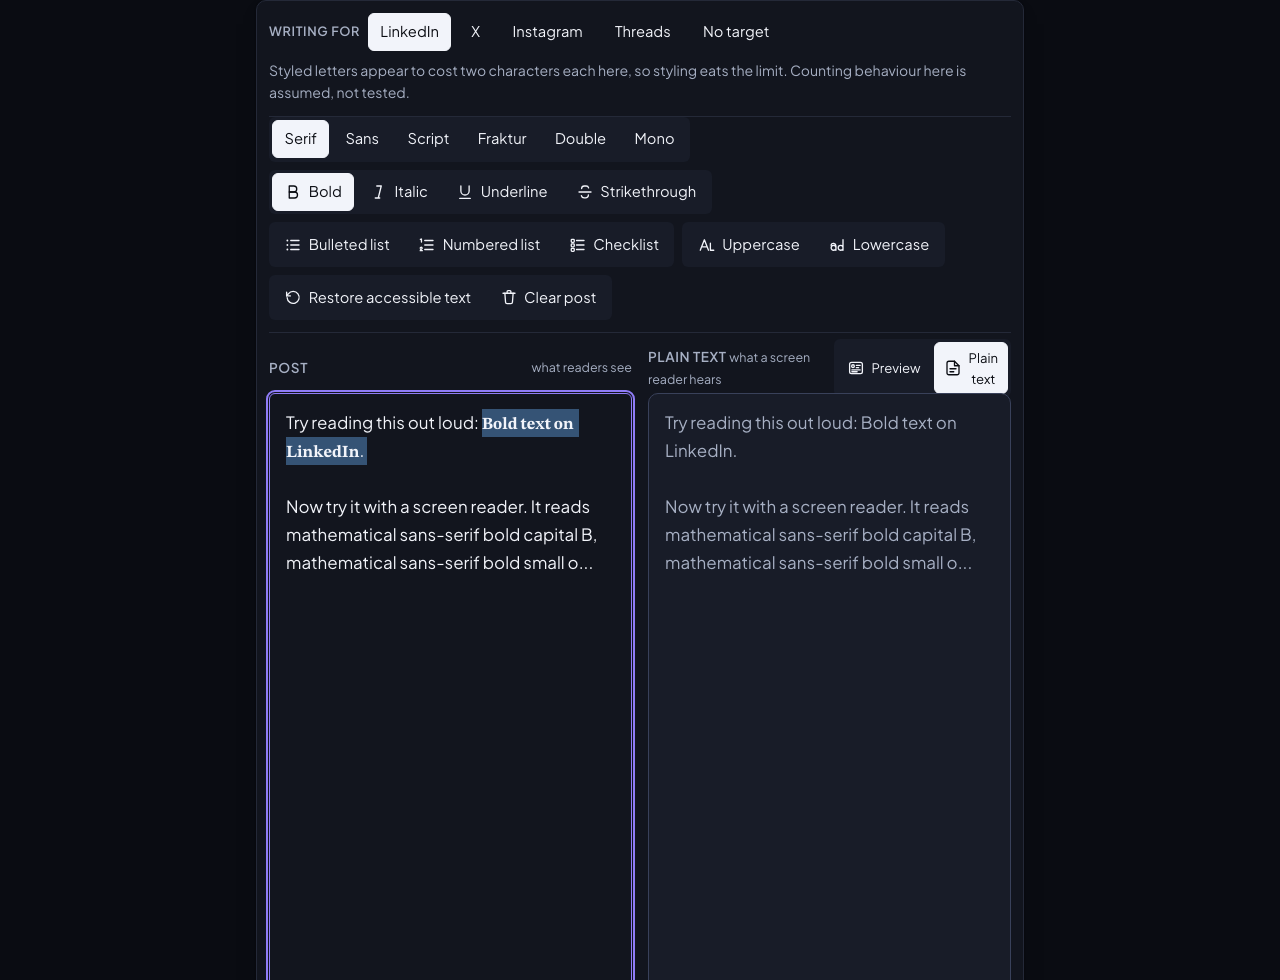
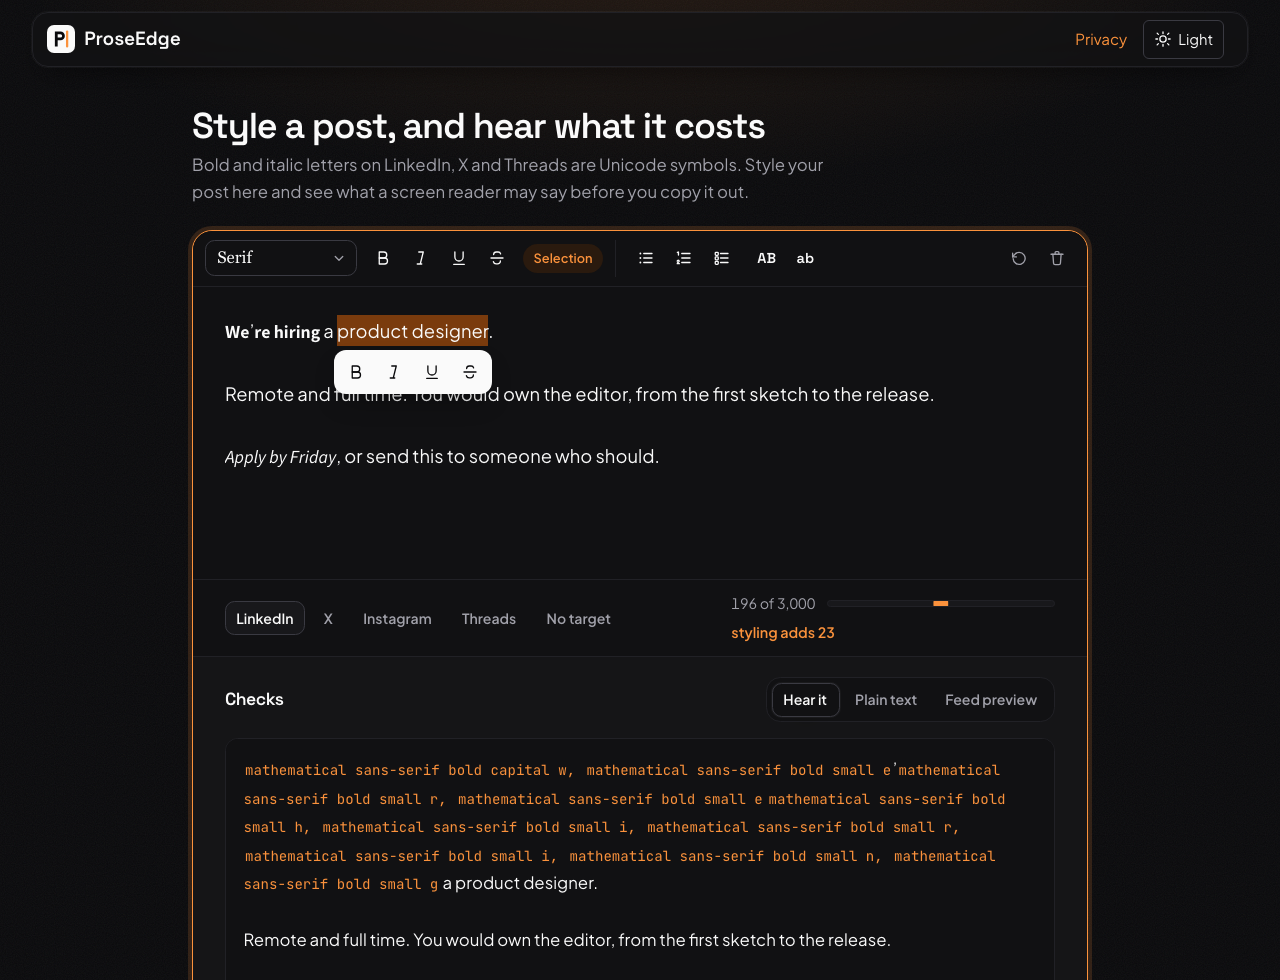
docs: record the formatter redesign and refresh its screenshots
ADR 0014 records why the formatter became one sheet and what it kept.
PRODUCT.md records the product facts the design was judged against.
The README screenshots and their alt text show the new layout.

diff --git a/PRODUCT.md b/PRODUCT.md
@@ -1,0 +1,86 @@
+# Product
+
+<!-- impeccable:product-schema 1 -->
+
+## Platform
+
+web
+
+## Users
+
+People writing posts for LinkedIn, X, Threads and Instagram who want bold, italic
+or other styled text in places that have no rich text. They are mid-task: a post
+is drafted somewhere else or typed here, styled, then copied out to the platform.
+
+## Product Purpose
+
+ProseEdge styles a post with Unicode "bold" and "italic" letters and shows what
+that styling costs before the post goes out: what a screen reader says instead of
+the words, how many extra characters the platform counts, and which letters a
+font cannot style. Success is a post copied out with the styling the writer chose
+and no surprises about how it reads or counts.
+
+## Positioning
+
+The plain text is the source of truth. Styling is metadata over it, so every
+style is reversible and the plain version is always one click away
+(`normalize(render(doc)) === sourceText(doc)`, property-tested). It names exactly
+what a screen reader announces for each styled character, from the Unicode
+character names, rather than hiding the cost.
+
+## Operating Context
+
+- The formatter (`/format`) is the working surface; the landing page (`/`)
+  explains the problem; `/privacy` states the data policy.
+- Output leaves by clipboard: "Copy styled" for the post, "Copy plain text" for
+  the accessible version.
+- Drafts autosave in the browser; after a reload the writer is asked whether to
+  restore the last draft.
+
+## Capabilities and Constraints
+
+- Styles: serif, sans, script, fraktur, double-struck and monospace alphabets,
+  with bold and italic where Unicode has them; underline and strikethrough as
+  combining marks; uppercase and lowercase as transforms; bulleted, numbered and
+  checklist lists.
+- Per-platform length budgets for LinkedIn, X, Threads and Instagram, with the
+  extra cost of styled letters; some counting rules are marked as assumed, not
+  tested, and must keep saying so.
+- Feed preview of how the post lays out (ADR 0009).
+- Checks: characters, words, lines, structure, reading grade (estimate, English).
+- Nothing typed leaves the browser; the only network traffic is loading the page
+  and cookieless page-view analytics. An end-to-end test enforces it.
+- No claim without a measurement: research features (accessibility score,
+  opening feedback, rewriter) stay off until their evaluation exists.
+- Static export on Vercel (Next.js, React, TypeScript). Free software, AGPL-3.0.
+
+## Brand Commitments
+
+- Name: ProseEdge. Logo: `app/icon.svg` (P mark with an orange bar).
+- Existing visual system: ADR 0013 (cool paper, near-black ink, one burnt-orange
+  accent; Space Grotesk, Plus Jakarta Sans, JetBrains Mono). The maintainer asked
+  to keep the brand colours.
+- Light theme by default; dark theme is an explicit toggle, remembered in the
+  browser.
+
+## Evidence on Hand
+
+- The live product at <https://proseedge.vercel.app>.
+- Unicode character names for all 726 styled code points, tested against
+  `UnicodeData.txt` (`src/analysis/transcript.ts`).
+- No user counts, testimonials or accessibility measurements exist yet; none may
+  be implied.
+
+## Product Principles
+
+1. Show the cost next to the choice: what styling does to speech and length is
+   visible where the styling happens, not in a side panel.
+2. The plain text always survives: every style can be removed, and the
+   accessible copy is always one click away.
+3. Private by construction: nothing typed is sent anywhere.
+4. Say only what is measured; mark estimates as estimates.
+
+## Accessibility & Inclusion
+
+WCAG 2.2 AA in both themes (axe-scanned in CI), 44px touch targets on coarse
+pointers, finite motion that respects reduced-motion settings, full keyboard use.

diff --git a/docs/adr/0014-formatter-write-and-hear.md b/docs/adr/0014-formatter-write-and-hear.md
@@ -1,0 +1,57 @@
+# 0014 — The formatter as one sheet: write, then hear what it costs
+
+- **Status:** Accepted
+- **Date:** 2026-10-21
+
+## Context
+
+The formatter shipped as a three-column workspace: a toolbar card, a post
+pane beside a plain-text pane, a checks sidebar, and a grid of fourteen "copy
+in this style" cards. Using it showed the problems:
+
+- It opened on a sample post, so the first click put the caret in the middle of
+  someone else's text and the first thing typed was spliced into it.
+- Until something was styled, the plain-text pane repeated the post word for
+  word, and the style grid repeated it fourteen more times.
+- The screen-reader warning, the point of the app, sat in a small grey card in
+  a sidebar, away from the words it was about.
+- Boxes nested inside boxes, several controls were bare icons, and the style
+  buttons had no visible selected state on a wide screen.
+
+The maintainer chose, from options shown with sketches: redesign the formatter
+only and keep the brand (ADR 0013); a single "write + hear" sheet; a live style
+menu in place of the grid; an empty editor with a one-click example. Kept on
+request: the feed preview, lists and case tools, the checks, and the
+restore-draft prompt.
+
+## Decision
+
+- **One sheet, top to bottom:** toolbar, the post, the target and its length
+  budget, then a Checks section, then the copy buttons.
+- **Checks speak first.** The default view reads the post out the way a screen
+  reader may, each styled character by its Unicode name
+  (`src/analysis/transcript.ts`). With nothing styled it says so in one line
+  instead of repeating the post. "Plain text" and "Feed preview" are the other
+  two views (ADR 0009's preview stays one click away).
+- **Scope is explicit.** Styling acts on the selection, or on the whole post
+  when nothing is selected, and a label beside the buttons says which. This
+  replaces the style grid's "whole post in one alphabet" job. Keyboard
+  shortcuts still act only on a selection.
+- **The alphabet menu previews.** Pointing at or focusing an alphabet shows it
+  on the post, and the checks, length and preview follow; Escape leaves the
+  post as it was. Each option says what emphasis Unicode gives it.
+- **A selection bar for the mouse.** Bold, italic, underline and strikethrough
+  float over selected words on fine pointers. It repeats toolbar buttons, so it
+  is hidden from assistive technology and the tab order; touch screens never
+  show it, because the system selection menu sits there.
+- **Empty first.** The editor opens empty with a "Try an example" button whose
+  post already carries some styling.
+
+## Consequences
+
+- The e2e suite was rewritten against the new structure: alphabets are picked
+  through the menu (`e2e/helpers.ts`), the plain text is a view, and the style
+  grid's tests became menu tests.
+- Fewer controls on the page; the touch-target sweep's floor of measured
+  controls on `/format` drops from 40 to 25.
+- `PRODUCT.md` now records the product facts this design was judged against.

diff --git a/docs/adr/README.md b/docs/adr/README.md
@@ -19,6 +19,7 @@ accepted; a changed decision gets a new record that supersedes the old one.
 | [0011](0011-split-boundaries-over-the-full-history.md)    | Split boundaries over the full Hacker News history                 | Accepted                                                     |
 | [0012](0012-public-repository.md)                         | Public repository again                                            | Accepted                                                     |
 | [0013](0013-visual-design-v2.md)                          | Visual design v2: cool paper, one orange accent, restrained motion | Accepted                                                     |
+| [0014](0014-formatter-write-and-hear.md)                  | The formatter as one sheet: write, then hear what it costs         | Accepted                                                     |
 
 New record: copy the section headings of the latest one, take the next number,
 and open it in the same PR as the change it justifies.

diff --git a/README.md b/README.md
@@ -43,7 +43,7 @@ lookalikes.
 
 <picture>
   <source media="(prefers-color-scheme: dark)" srcset="docs/screenshots/app-format-dark.png">
-  <img alt="The formatter: a toolbar of style, emphasis, list and case controls above two side-by-side panes, the styled post on the left with a bold phrase selected and the plain text a screen reader hears on the right, identical but for the styling." src="docs/screenshots/app-format-light.png">
+  <img alt="The formatter: one sheet with a toolbar of alphabet, emphasis, list and case controls; the post below it with 'product designer' selected and a small bold, italic, underline and strikethrough bar floating over it; then the LinkedIn character budget, and a Checks panel reading the styled words out as a screen reader may, as 'mathematical sans-serif bold capital w' and so on." src="docs/screenshots/app-format-light.png">
 </picture>
 
 Light and dark follow an explicit in-app toggle, not the operating system's
